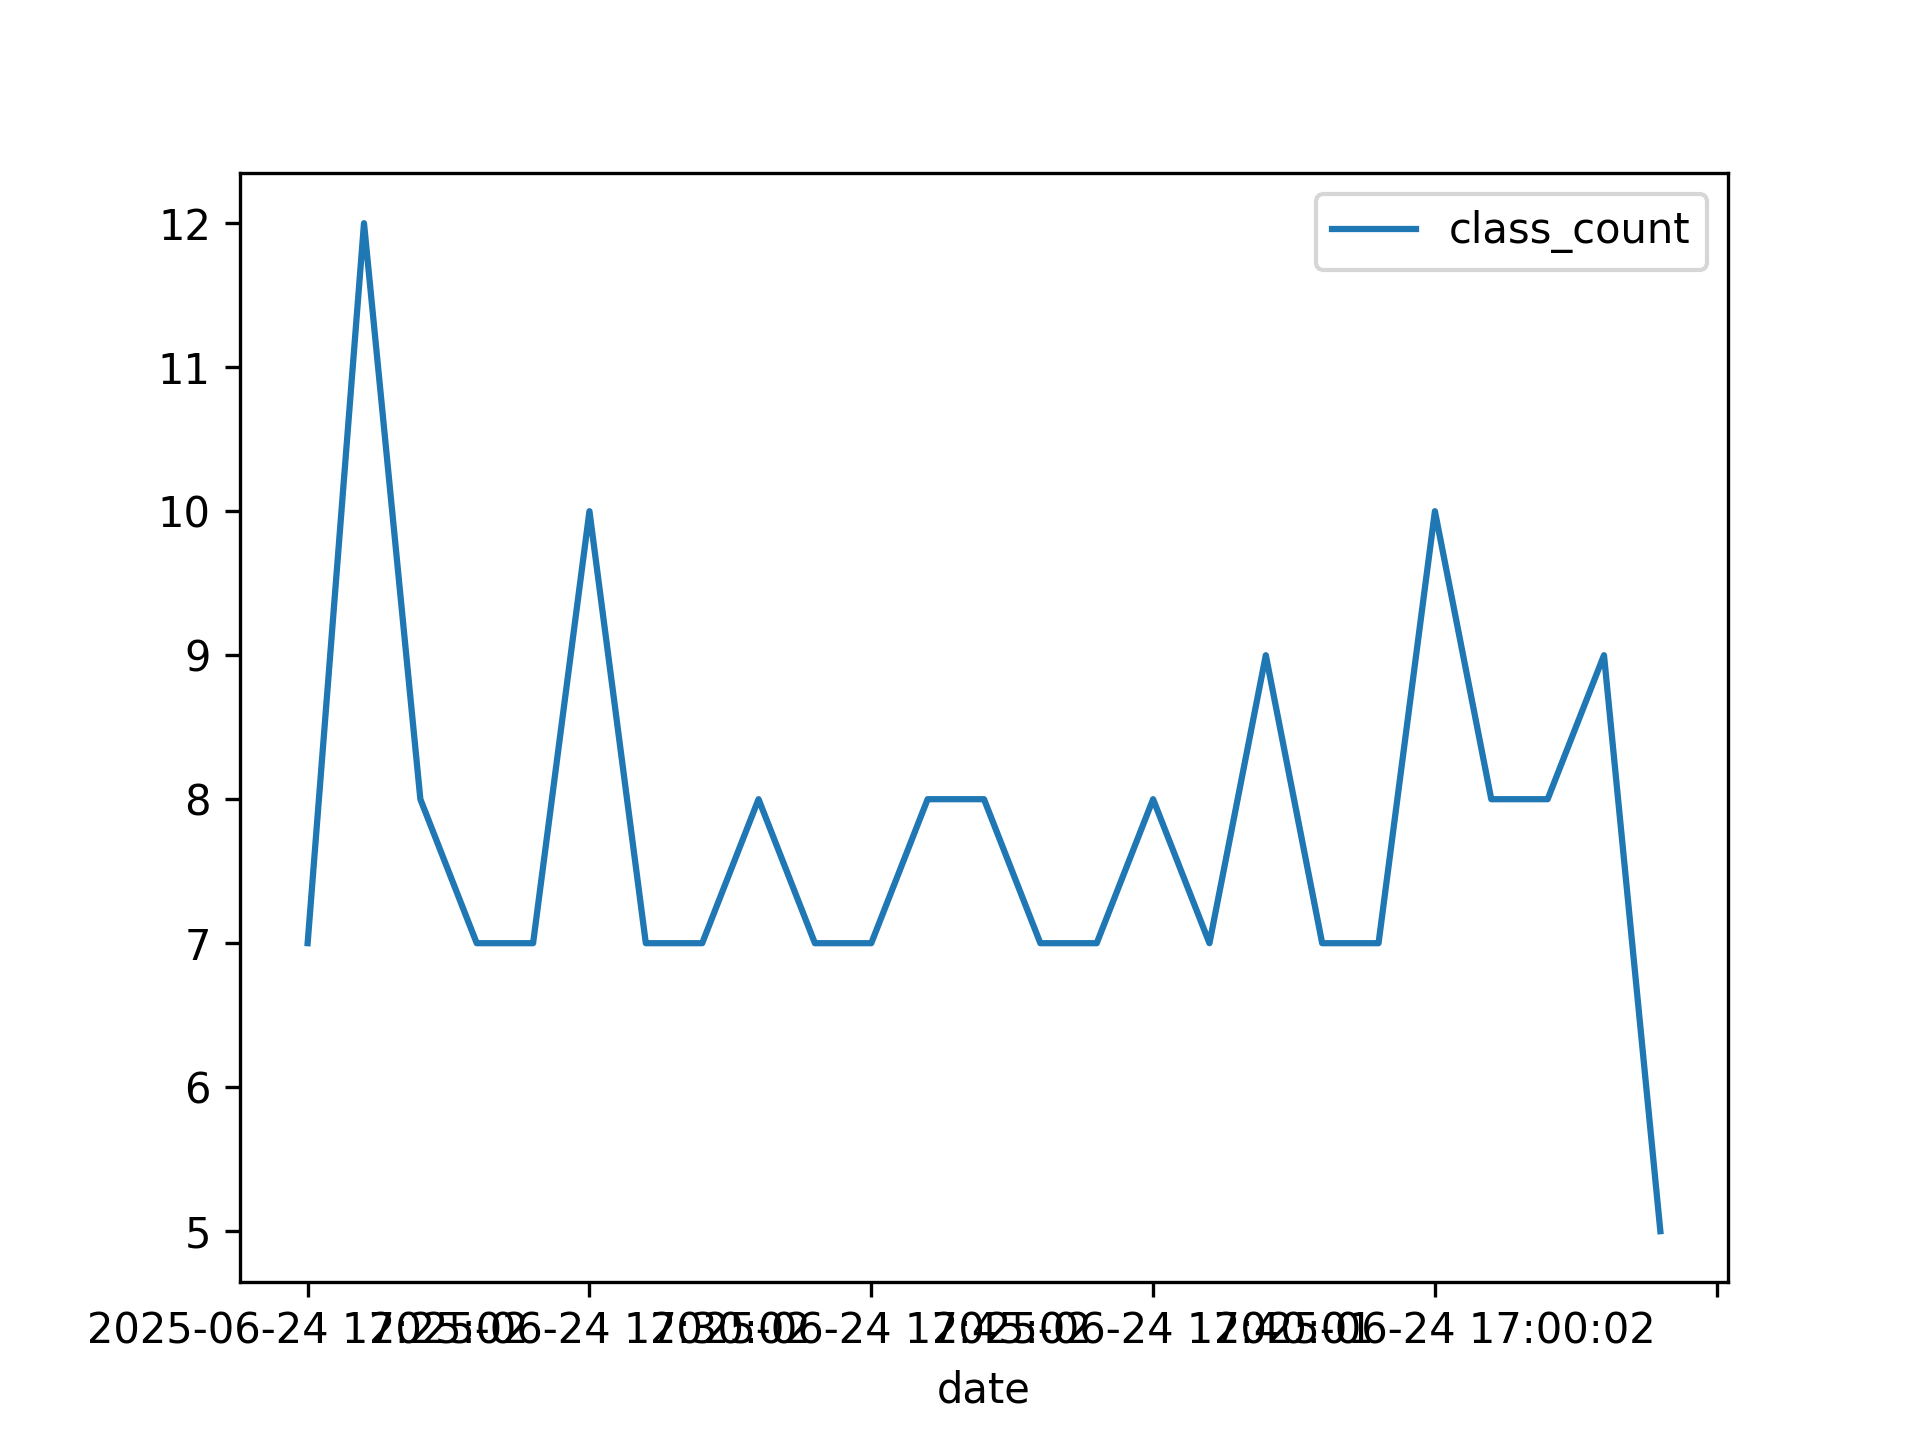
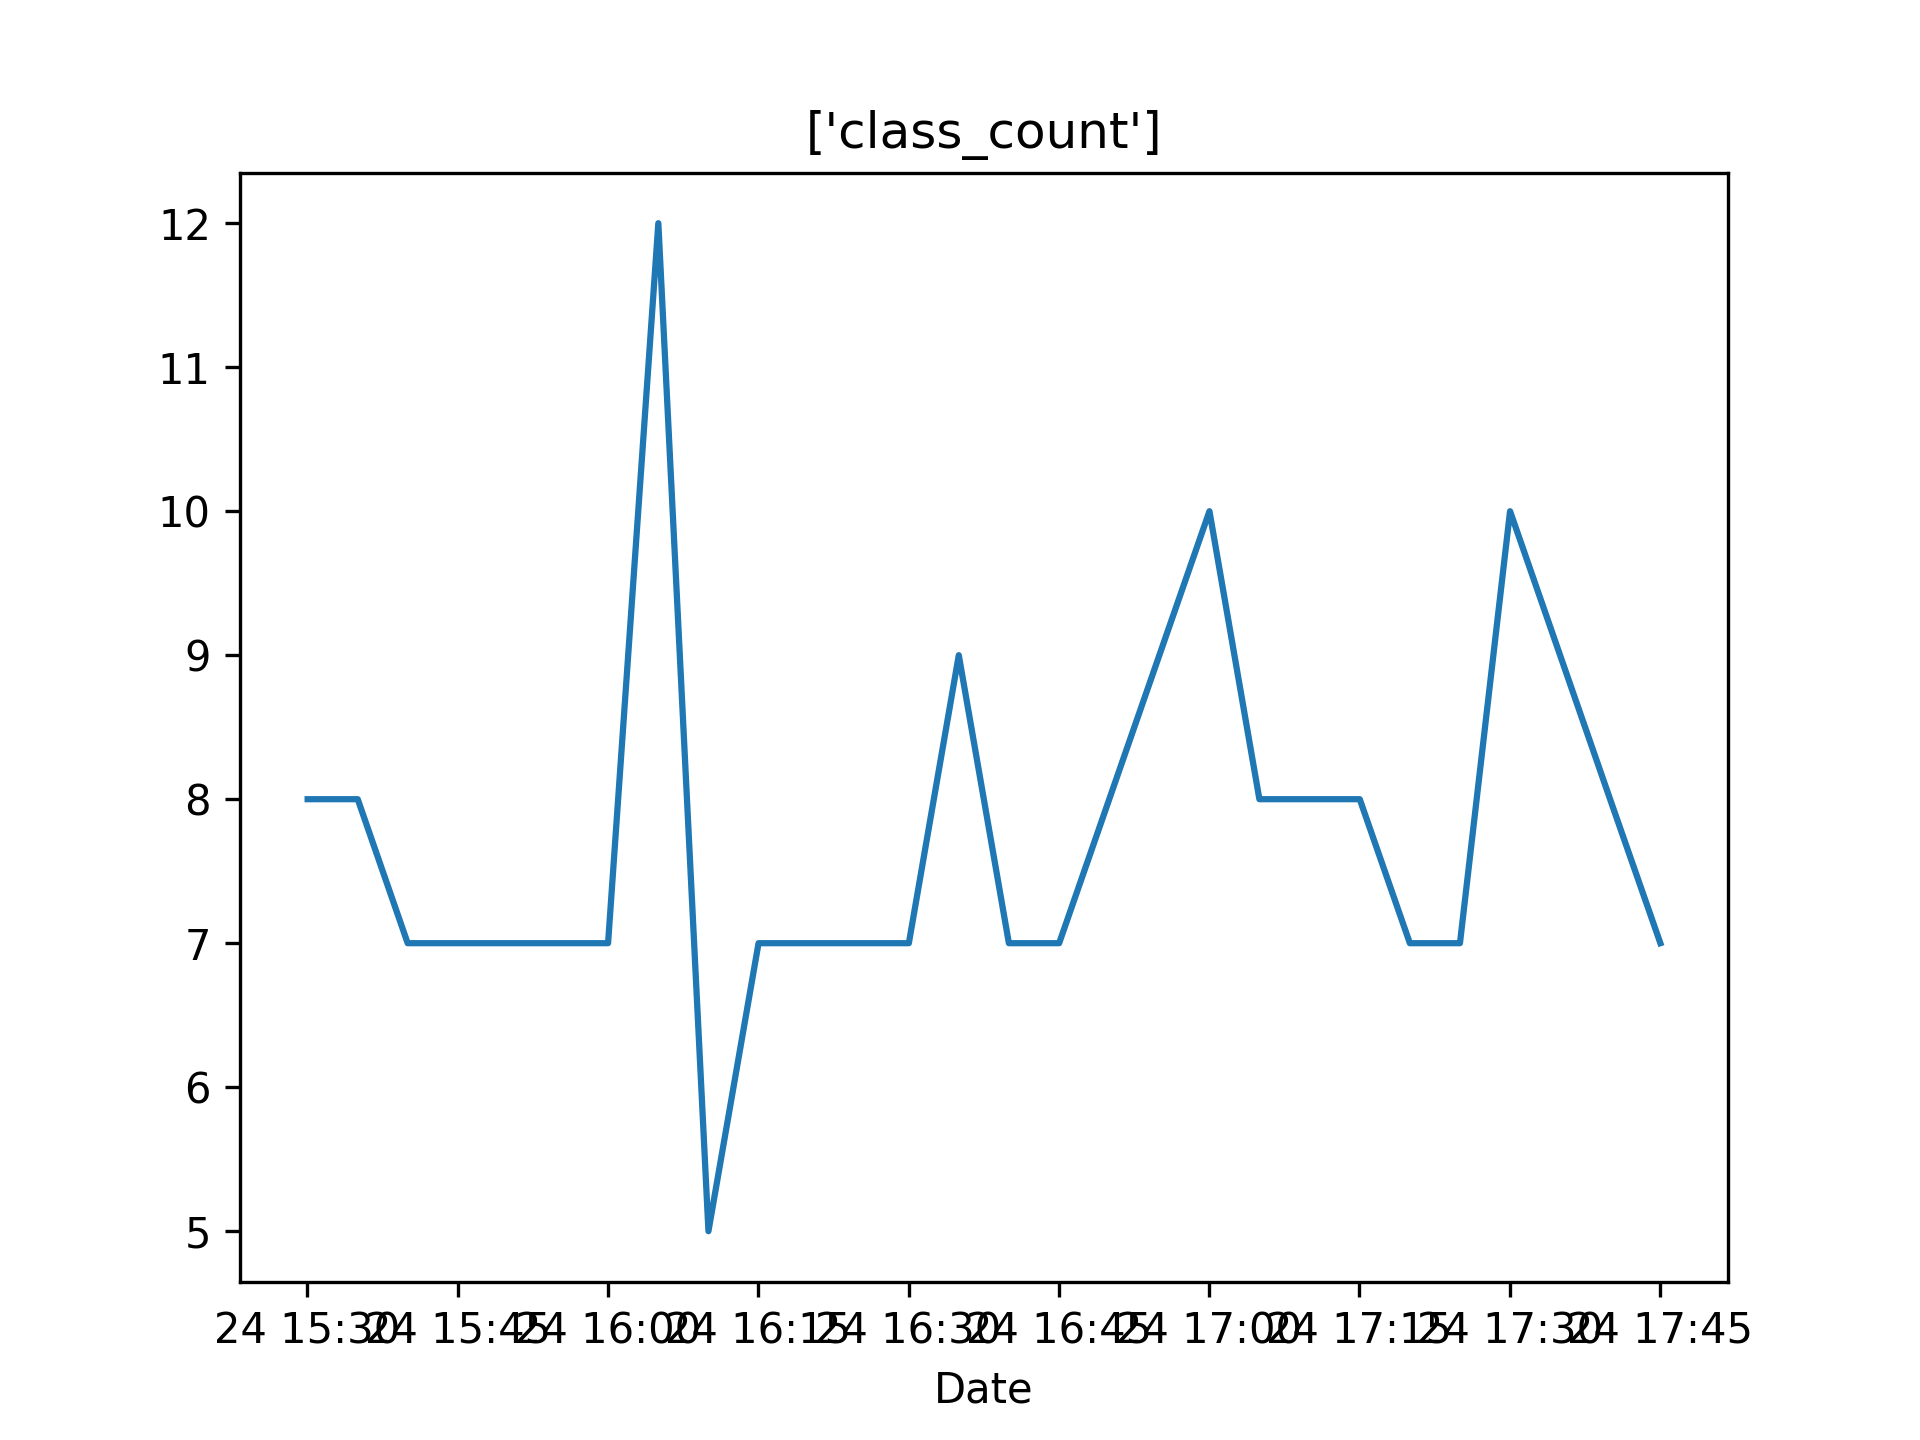
line charts

diff --git a/results/openai/gpt-4.1-nano/robot_measurments/measurement/plot_line_charts.py b/results/openai/gpt-4.1-nano/robot_measurments/measurement/plot_line_charts.py
@@ -10,21 +10,15 @@ import sys
 FILE_NAME = 'concatenated_file.csv'
 Y_NAME = sys.argv[1:]
 
-df = pd.read_csv((FILE_NAME))#,index_col='date',parse_dates=True)
-df['date_time'] = pd.to_datetime(df['date'],format='%Y-%m-%d %H:%M:%S',errors="coerce")
-df=df.sort_values(by=['date_time'])
-df=df.drop('date',axis="columns")
-df= df.set_index('date_time')
+df = pd.read_csv((FILE_NAME))
 
-print(df)
+df['date'] = pd.to_datetime(df['date'],format='%Y-%m-%d %H:%M:%S',errors="coerce")
+df=df.sort_values(by=['date'])
+df= df.set_index('date')
 
-#ligne = df.iloc[1]
-# Afficher la valeur dans la colonne 'Nom' pour cette ligne
-#print(type(ligne['date']))
-#print(type(ligne['date_time']))
-#print(df.dtypes)
-
-df.plot(y=Y_NAME)
-#plt.savefig(Y_NAME[0], dpi=300)
+plt.plot(df.index,df[Y_NAME])
+plt.xlabel('Date')
+plt.title(Y_NAME)
+plt.savefig(Y_NAME[0], dpi=300)
 plt.show()
 
